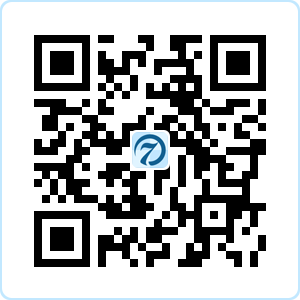
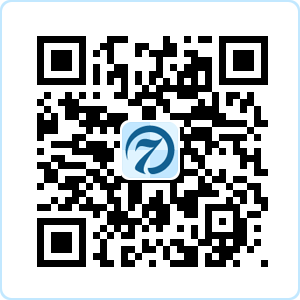
finish version 0.0.1

diff --git a/assets/css/main.css b/assets/css/main.css
@@ -89,6 +89,40 @@ a:after {
 }
 
 
+.navbar-default {
+  background-color: #f5fbff;
+  border-color: #e7e7e7;
+}
+.navbar-default .navbar-brand {
+  color: #298dcc;
+}
+
+.navbar-default .navbar-brand:hover,
+.navbar-default .navbar-brand:focus {
+  color: #116091;
+  background-color: transparent;
+}
+.navbar-default .navbar-text {
+  color: #298dcc;
+}
+
+.navbar-default .navbar-nav > li > a {
+  color: #298dcc;
+}
+
+.navbar-default .navbar-nav > li > a:hover,
+.navbar-default .navbar-nav > li > a:focus {
+  color: #116091;
+  background-color: transparent;
+}
+
+.navbar-default .navbar-nav > .active > a,
+.navbar-default .navbar-nav > .active > a:hover,
+.navbar-default .navbar-nav > .active > a:focus {
+  color: #116091;
+  background-color: #e0f3ff;
+}
+
 /* ==========================================================================
    Wrap Sections
    ========================================================================== */
@@ -96,7 +130,7 @@ a:after {
 #headerwrap {
 /*  background-color: #34495e;*/
 	
-	background: url(../img/header-bg.jpg) no-repeat center top;
+	background: #00234b url(../img/head-bg.gif) no-repeat center top;
 	margin-top: -10px;
 	padding-top: 60px;
 	text-align:center;
@@ -181,7 +215,7 @@ a:after {
 }
 
 #footerwrap {
-	background-color: #051d2b;
+	background-color: #00234b;
 	color: white;
 	padding-top: 40px;
 	padding-bottom: 60px;
@@ -212,7 +246,7 @@ a:after {
 /* Copyright Wrap */
 
 #c {
-	background: #020c12;
+	background: #001730;
 	padding-top: 15px;
 	text-align: right;
 }

diff --git a/index.html b/index.html
@@ -62,7 +62,7 @@
 	    		</div>
 	    		<div class="col-lg-6">
 	    			<img style="padding-bottom:20px;" class="centered" src="assets/img/qrd.png">
-            <a href="#"><img  style="margin: 0 auto;" class="img-responsive" src="assets/img/app-link.png"></a>
+            <a href="http://itunes.apple.com/app/id728374826" target="_blank"><img  style="margin: 0 auto;" class="img-responsive" src="assets/img/app-link.png"></a>
 	    		</div>
 	    	</div>
 	    </div> <!--/ .container -->
@@ -231,7 +231,7 @@
 	<div id="footerwrap">
 		<div class="container">
 			<div class="col-lg-6 centered">
-        <h1><img class="centered" src="assets/img/qr1.jpg"></h1>
+        <h1><img class="centered" src="assets/img/qr2.png"></h1>
 				
 			</div>
 			
